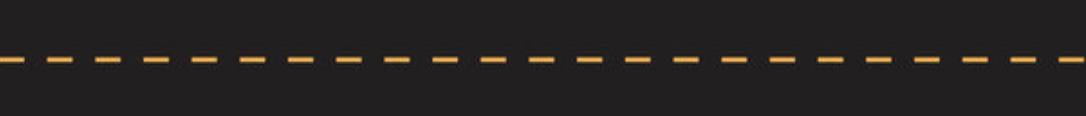
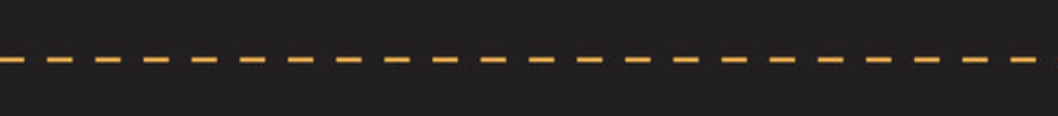
update

Changed region(s): [[0.0312, 0.4655, 1.0, 0.5431]]

diff --git a/index.css b/index.css
@@ -34,6 +34,32 @@ body {
     height: 50vh;
     background-position-x: 0;
     background-size: 30%;
+    animation: road steps(1) 0.25s infinite;
+}
+
+
+@keyframes road {
+
+	0%,
+	100% {
+		background-position: 0px 0px;
+	}
+
+	20% {
+		background-position: -5px 0;
+	}
+
+	40% {
+		background-position: -10px 0;
+	}
+
+    69% {
+		background-position: -15px 0;
+	}
+
+    80% {
+		background-position: -20px 0;
+	}
 }
 
 .finish_line {

diff --git a/index.js b/index.js
@@ -41,7 +41,7 @@ var finish_line_length = 3000;
 var actions = [];
 
 var gameRunning = setInterval(function () {
-    $('.mud').css('background-position-x', index_road + 'px');
+    // $('.mud').css('background-position-x', index_road + 'px');
     $('.finish_line').css('left', finish_line_length + 'px');
     finish_line_length -= speed_road;
     index_road -= speed_road;
